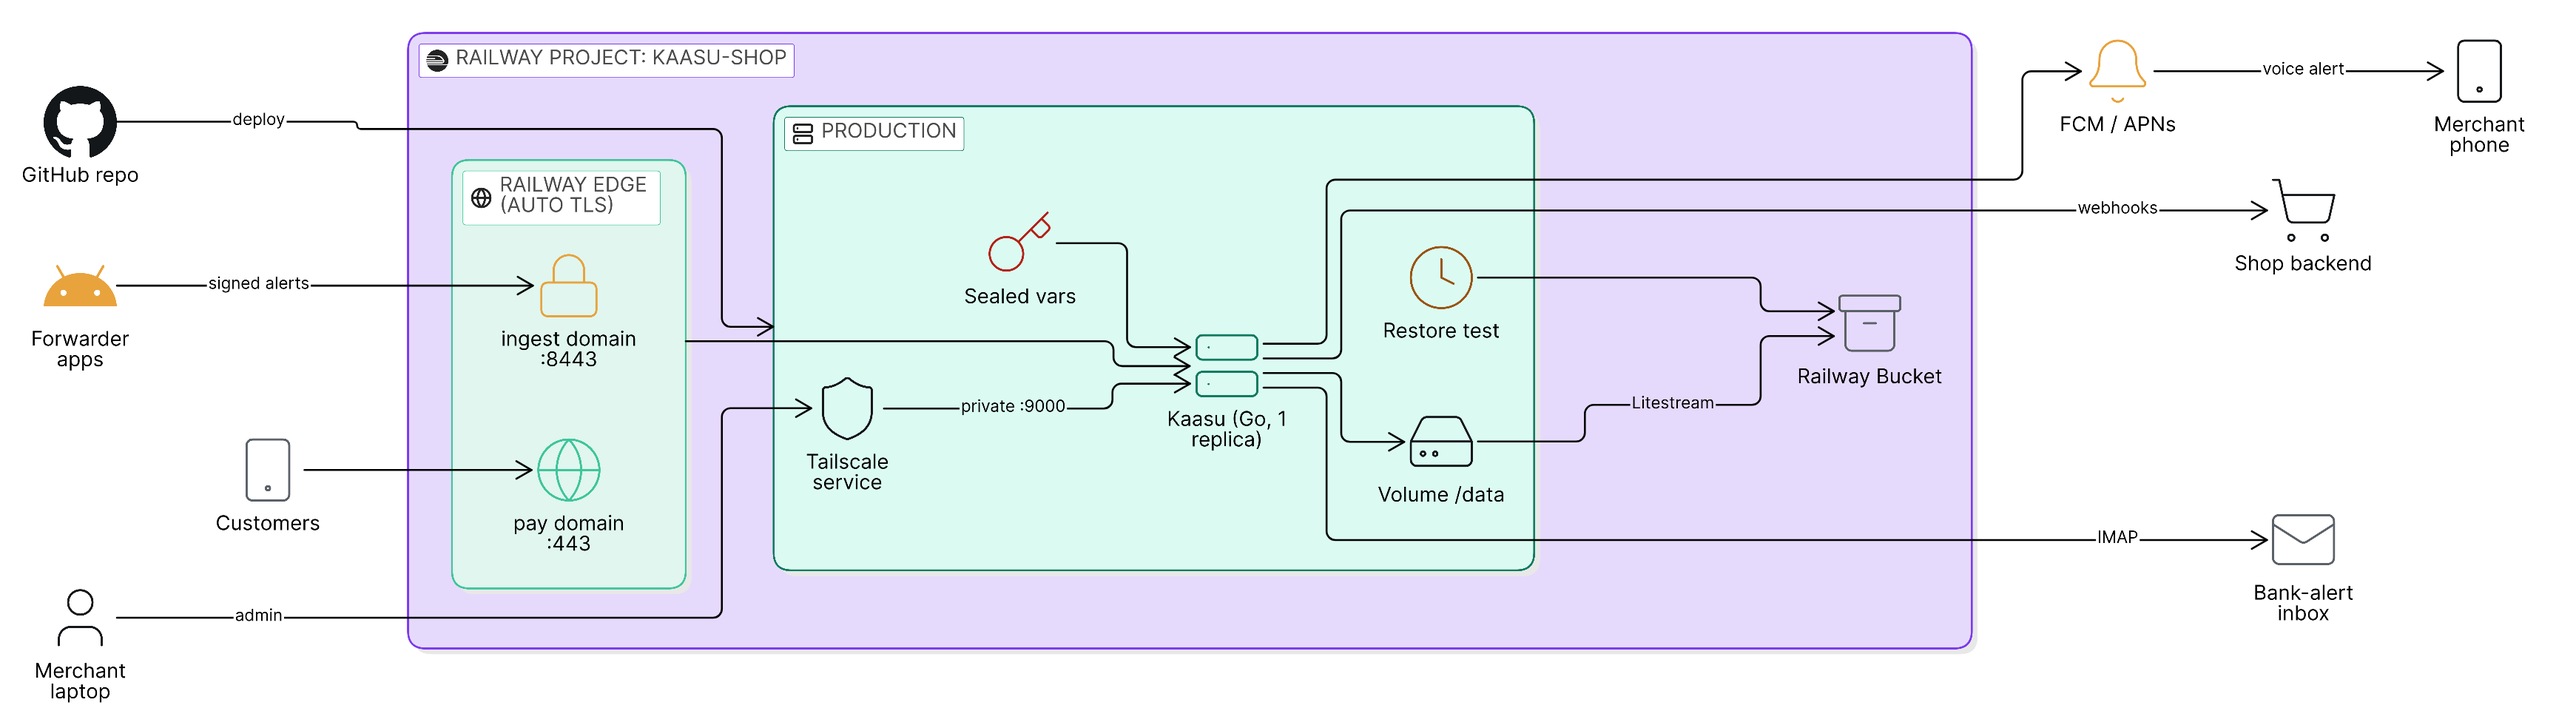
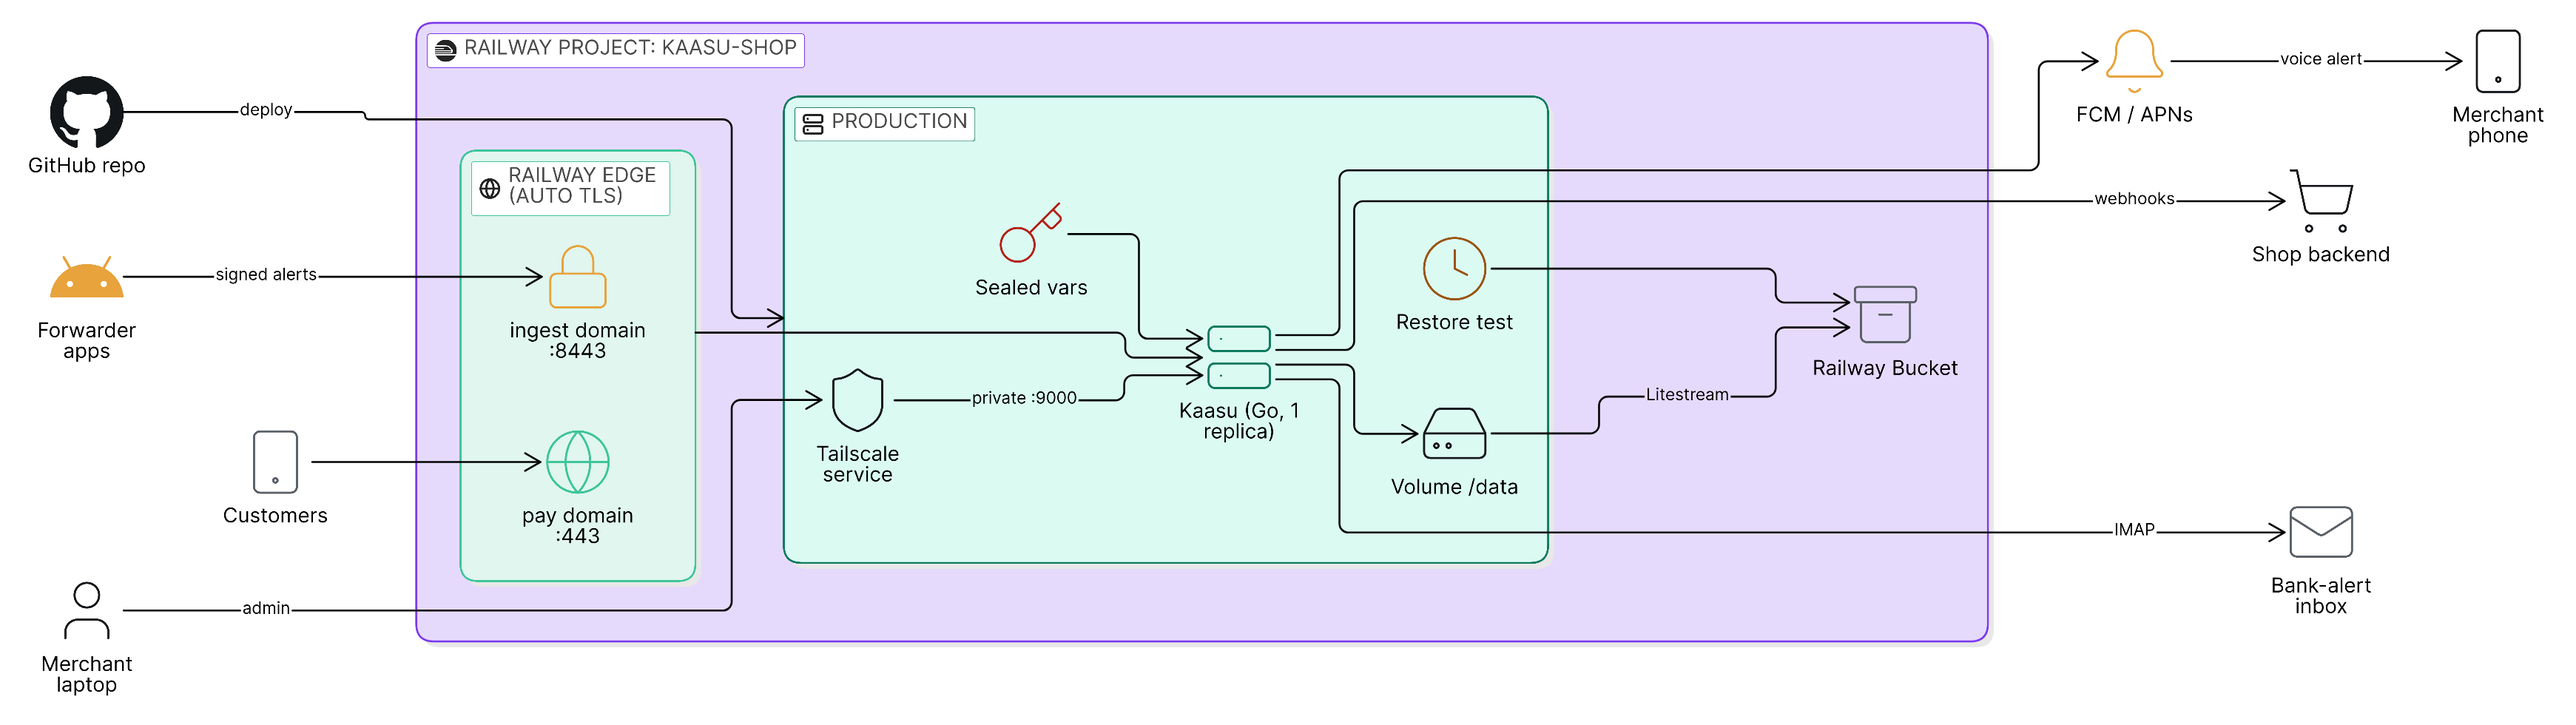
docs: split architecture.md out of design.md; white-background diagram exports
- design.md: product, brand, UI rules, languages, screens
- architecture.md: system diagrams, API and webhooks, security, AI
- Re-exported all six Eraser diagrams on opaque white for dark-mode readers
- Links updated in README, AGENTS.md, CONTRIBUTING.md and the PR template

diff --git a/design.md b/design.md
@@ -1,8 +1,8 @@
 # Kaasu design spec
 
-Source of truth for product, brand, UI and system design. Spec only.
+Source of truth for product, brand and UI. System design lives in [`architecture.md`](architecture.md). Spec only.
 
-**Contents:** [Product](#1-product) · [Brand](#2-brand) · [UI rules](#3-ui-rules) · [Languages](#4-languages) · [Screens](#5-screens) · [System](#6-system) · [API](#7-api--webhooks) · [Security](#8-security) · [AI](#9-ai)
+**Contents:** [Product](#1-product) · [Brand](#2-brand) · [UI rules](#3-ui-rules) · [Languages](#4-languages) · [Screens](#5-screens)
 
 ---
 
@@ -125,62 +125,3 @@ Images in `assets/screens/`.
 | Dashboard + menu bar | Mac | Orders, sources, menu-bar status |
 | Review queue | Windows | Expected vs bank-said, confirm with Windows Hello |
 | Languages | All | Picker, scripts, voice phrases |
-
----
-
-## 6. System
-
-Diagrams are drawn in Eraser. Source: `assets/diagrams/*.eraser` · Images: `assets/diagrams/*.png` · Live file: [Kaasu: System design](https://app.eraser.io/workspace/DGtR2KRhH2uuKnljVGsC).
-
-### Architecture
-![Kaasu system architecture](assets/diagrams/architecture.png)
-
-### Payment flow
-![Payment confirmation flow](assets/diagrams/payment-flow.png)
-
-### Order states
-<img src="assets/diagrams/order-states.png" alt="Order state machine" width="420">
-
-### Data model
-![Data model](assets/diagrams/data-model.png)
-
-### Deployment
-| Option | Diagram |
-|---|---|
-| Self-host (VPS, Mac, Windows) | Architecture above |
-| Railway (one project per shop) | ![Railway](assets/diagrams/deploy-railway.png) |
-| Kaasu Cloud on AWS (ap-south-1) | ![AWS](assets/diagrams/deploy-aws.png) |
-
----
-
-## 7. API & webhooks
-
-- REST under `/v1`, API key per shop, `Idempotency-Key` required on create.
-- Money fields are integer paise.
-- UPI intent link for personal VPAs: `pa, pn, am, cu, tn` only.
-- Webhook header `X-Kaasu-Signature: t=<unix>,v1=<HMAC-SHA256(secret, t.body)>`; unique `event_id`; at-least-once delivery.
-- Events: `order.confirmed`, `order.review`, `order.rejected`, `order.expired`, `order.cancelled`, `order.refunded`, `order.disputed`.
-- Full spec: `openapi.yaml`.
-
----
-
-## 8. Security
-
-- Three listeners: public, ingest (signed devices only), admin (localhost/VPN only).
-- Device alerts: Ed25519 signature over body hash + timestamp + nonce; replay window 60 s; revocable.
-- Email alerts: DKIM verified on raw message; bank domain allowlist.
-- Admin: passkeys, TOTP fallback; re-auth for sensitive actions.
-- Secrets: envelope-encrypted; master key outside the database; API keys hashed.
-- Ledger: append-only, hash-chained, verified by `kaasu verify`.
-- Customer pages: strict CSP, no third-party JS.
-- Releases: reproducible, signed, SBOM.
-
----
-
-## 9. AI
-
-- Optional, off by default; merchant's own key or local model.
-- Never confirms payments or changes order state.
-- Inputs masked; structured output only; no tools.
-- Every suggestion stored in the ledger with the model name.
-- Features: unknown-format fallback (→ review), statement import, Ask your shop.

diff --git a/architecture.md b/architecture.md
@@ -1,0 +1,64 @@
+# Kaasu architecture
+
+How Kaasu is built: system design, API, security and AI rules. Product, brand and UI live in [`design.md`](design.md). Spec only.
+
+**Contents:** [System](#1-system) · [API & webhooks](#2-api--webhooks) · [Security](#3-security) · [AI](#4-ai)
+
+---
+
+## 1. System
+
+Diagrams are drawn in Eraser. Source: `assets/diagrams/*.eraser` · Images: `assets/diagrams/*.png` · Live file: [Kaasu: System design](https://app.eraser.io/workspace/DGtR2KRhH2uuKnljVGsC).
+
+### Architecture
+![Kaasu system architecture](assets/diagrams/architecture.png)
+
+### Payment flow
+![Payment confirmation flow](assets/diagrams/payment-flow.png)
+
+### Order states
+<img src="assets/diagrams/order-states.png" alt="Order state machine" width="420">
+
+### Data model
+![Data model](assets/diagrams/data-model.png)
+
+### Deployment
+| Option | Diagram |
+|---|---|
+| Self-host (VPS, Mac, Windows) | Architecture above |
+| Railway (one project per shop) | ![Railway](assets/diagrams/deploy-railway.png) |
+| Kaasu Cloud on AWS (ap-south-1) | ![AWS](assets/diagrams/deploy-aws.png) |
+
+---
+
+## 2. API & webhooks
+
+- REST under `/v1`, API key per shop, `Idempotency-Key` required on create.
+- Money fields are integer paise.
+- UPI intent link for personal VPAs: `pa, pn, am, cu, tn` only.
+- Webhook header `X-Kaasu-Signature: t=<unix>,v1=<HMAC-SHA256(secret, t.body)>`; unique `event_id`; at-least-once delivery.
+- Events: `order.confirmed`, `order.review`, `order.rejected`, `order.expired`, `order.cancelled`, `order.refunded`, `order.disputed`.
+- Full spec: `openapi.yaml`.
+
+---
+
+## 3. Security
+
+- Three listeners: public, ingest (signed devices only), admin (localhost/VPN only).
+- Device alerts: Ed25519 signature over body hash + timestamp + nonce; replay window 60 s; revocable.
+- Email alerts: DKIM verified on raw message; bank domain allowlist.
+- Admin: passkeys, TOTP fallback; re-auth for sensitive actions.
+- Secrets: envelope-encrypted; master key outside the database; API keys hashed.
+- Ledger: append-only, hash-chained, verified by `kaasu verify`.
+- Customer pages: strict CSP, no third-party JS.
+- Releases: reproducible, signed, SBOM.
+
+---
+
+## 4. AI
+
+- Optional, off by default; merchant's own key or local model.
+- Never confirms payments or changes order state.
+- Inputs masked; structured output only; no tools.
+- Every suggestion stored in the ledger with the model name.
+- Features: unknown-format fallback (→ review), statement import, Ask your shop.

diff --git a/AGENTS.md b/AGENTS.md
@@ -1,6 +1,6 @@
 # AGENTS.md (Kaasu)
 
-Kaasu confirms UPI payments for small Indian shops. Money moves customer bank → merchant bank; Kaasu never touches it. It watches signed bank alerts and marks orders paid. Full spec: `design.md`.
+Kaasu confirms UPI payments for small Indian shops. Money moves customer bank → merchant bank; Kaasu never touches it. It watches signed bank alerts and marks orders paid. Specs: `design.md` (product, brand, UI) and `architecture.md` (system, API, security).
 
 ## Commands
 
@@ -55,7 +55,7 @@ assets/             logo, Paisu, icons, tokens.json (SVG is source; WebP generat
 - **Text:** every string in `i18n/`; no hard-coded copy; amounts with Indian grouping; UPI/UTR/IDs stay Latin.
 - **Paisu:** merchant screens only; `happy` only after confirmation.
 - **Fixtures:** bank alert samples must be redacted.
-- **Diagrams:** edit `assets/diagrams/<name>.eraser`, paste into the Eraser file, re-export `<name>.png` at 2×, all in the same PR. Never hand-edit the PNG.
+- **Diagrams:** edit `assets/diagrams/<name>.eraser`, paste into the Eraser file, re-export `<name>.png` at 2× with a white background, all in the same PR. Never hand-edit the PNG.
 - **Git:** Conventional Commits; one issue per PR; `Closes #n`.
 
 ## AI-assisted coding
@@ -66,5 +66,5 @@ Follow the [AI-assisted coding policy](CONTRIBUTING.md#ai-assisted-coding-policy
 
 - Tests + a simulator scenario for any behaviour change
 - `make lint test` passes offline
-- `design.md` updated if behaviour or rules changed
+- `design.md` updated if UI changed; `architecture.md` updated if system, API or security changed
 - UI changes: phone + desktop screenshots, every state, one Indic script checked

diff --git a/CONTRIBUTING.md b/CONTRIBUTING.md
@@ -7,12 +7,12 @@ Thanks for helping. Kaasu handles people's money, so we keep a high bar and a si
 - **Code:** pick an [issue](https://github.com/opensawce/kaasu/issues). Each has a brief and an end state.
 - **New bank formats:** report an alert format we don't parse yet with the *Bank alert format* issue template. Redact it first.
 - **Translations:** native speakers reviewing strings in any of our 11 languages.
-- **Docs and design:** see [`design.md`](design.md).
+- **Docs and design:** see [`design.md`](design.md) for UI and [`architecture.md`](architecture.md) for the system.
 
 ## Workflow
 
 1. Comment on the issue to claim it, so work isn't duplicated.
-2. Read [`AGENTS.md`](AGENTS.md) for conventions and hard rules, and [`design.md`](design.md) for the spec.
+2. Read [`AGENTS.md`](AGENTS.md) for conventions and hard rules, and the specs: [`design.md`](design.md) (UI) and [`architecture.md`](architecture.md) (system).
 3. Branch from `main`. Use [Conventional Commits](https://www.conventionalcommits.org) (`feat:`, `fix:`, `docs:`…).
 4. Add tests, and a simulator scenario if behaviour changes. `make lint test` must pass offline.
 5. Open a PR with the template filled in. One issue per PR, with `Closes #n`.

diff --git a/README.md b/README.md
@@ -21,7 +21,8 @@
 <p align="center">
   <a href="#quick-start">Quick start</a> ·
   <a href="#how-it-works">How it works</a> ·
-  <a href="design.md">Design spec</a> ·
+  <a href="design.md">Design</a> ·
+  <a href="architecture.md">Architecture</a> ·
   <a href="https://github.com/opensawce/kaasu/milestones">Roadmap</a> ·
   <a href="#contributing">Contributing</a>
 </p>
@@ -93,7 +94,8 @@ kaasu sim exact-match
 
 ## Docs
 
-- [`design.md`](design.md): product, brand, UI and system spec
+- [`design.md`](design.md): product, brand and UI spec
+- [`architecture.md`](architecture.md): system design, API, security
 - [`AGENTS.md`](AGENTS.md): rules for contributors and AI coding agents
 - [System design in Eraser](https://app.eraser.io/workspace/DGtR2KRhH2uuKnljVGsC): editable diagrams
 

diff --git a/.github/pull_request_template.md b/.github/pull_request_template.md
@@ -27,7 +27,7 @@ Closes #
 - [ ] No new dependency, or reason given below
 - [ ] UI: screenshots on phone + desktop, every state, one Indic script checked
 - [ ] New text added to the string catalogue (no hard-coded strings)
-- [ ] `design.md` / `AGENTS.md` updated if rules or behaviour changed
+- [ ] `design.md` / `architecture.md` / `AGENTS.md` updated if UI, system or rules changed
 - [ ] I have signed the CLA
 
 ## Screenshots / notes
